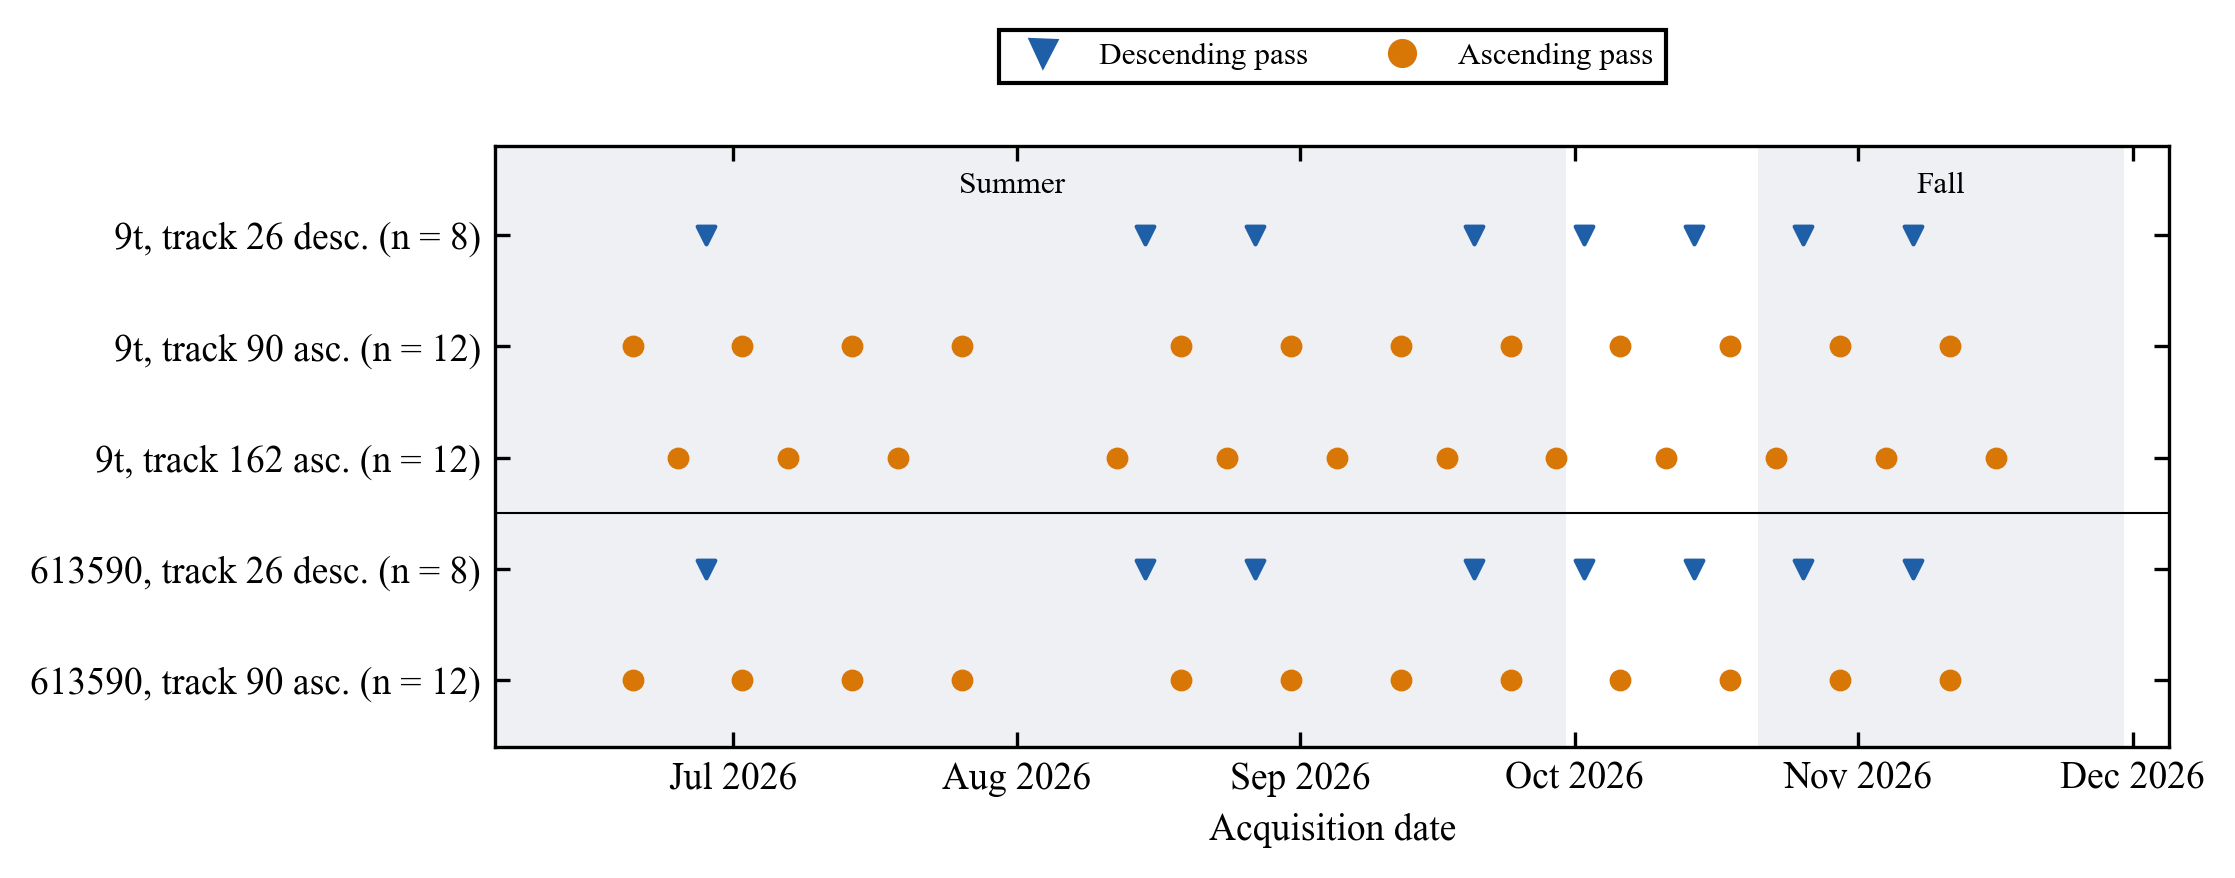
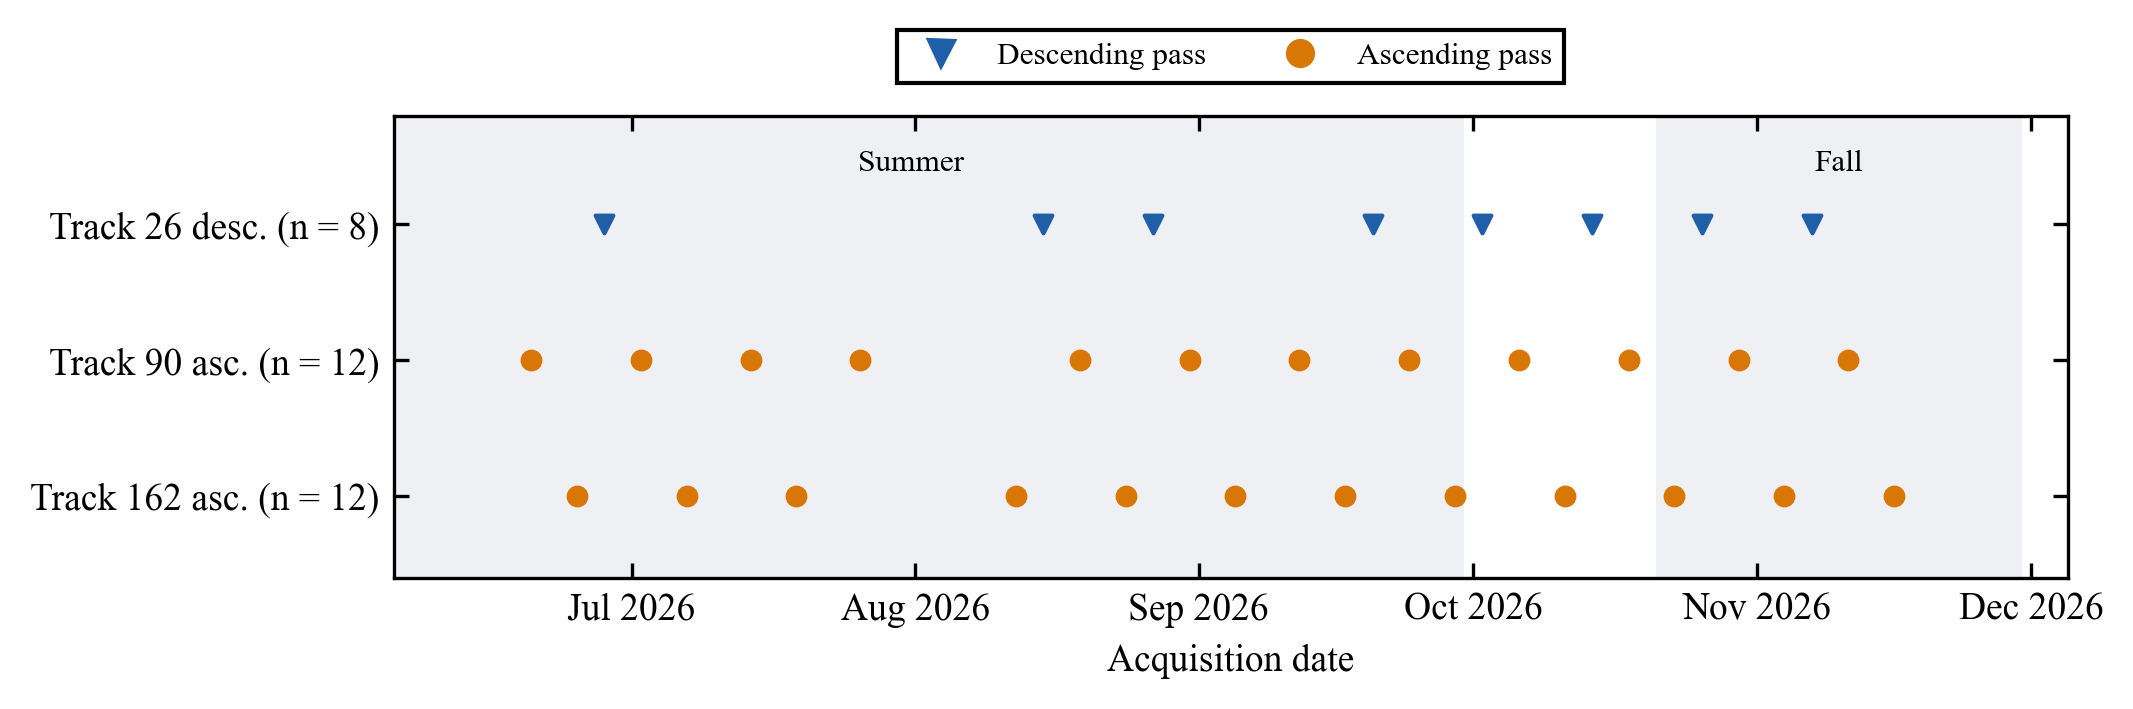
nisar: post-June dates figure limited to 9t (present scope)

diff --git a/nisar/code/s7_analysis/_nisar_process_figures.py b/nisar/code/s7_analysis/_nisar_process_figures.py
@@ -93,8 +93,8 @@ def fig_dates_postjune():
     bad_dates = {(pd.Timestamp(x), t) for x, t in (("2026-07-22", 26), ("2026-09-08", 26))}
     d = d[(d.t >= pd.Timestamp("2026-06-01")) & (d.valid_fraction >= 0.5)]
     d = d[[(t, k) not in bad_dates for t, k in zip(d.t, d.track)]]
-    lanes = [("9t", 26), ("9t", 90), ("9t", 162), ("613590", 26), ("613590", 90)]
-    fig, ax = plt.subplots(figsize=(7.2, 2.6))
+    lanes = [("9t", 26), ("9t", 90), ("9t", 162)]   # 2026-11-23: present scope is 9t only
+    fig, ax = plt.subplots(figsize=(7.2, 2.0))
     for a, b, lab in (("2026-06-01", "2026-09-30", "Summer"), ("2026-10-21", "2026-11-30", "Fall")):
         ax.axvspan(pd.Timestamp(a), pd.Timestamp(b), color=LIGHT, alpha=0.6, lw=0, zorder=0)
         ax.text(pd.Timestamp(a) + (pd.Timestamp(b) - pd.Timestamp(a)) / 2, len(lanes) + 0.45, lab,
@@ -105,8 +105,7 @@ def fig_dates_postjune():
         s_ = d[(d.area == area) & (d.track == trk)]
         mk = "v" if trk == 26 else "o"
         ax.scatter(s_.t, [y] * len(s_), marker=mk, s=18, c=BLUE if trk == 26 else ORANGE, zorder=3)
-        labels.append(f"{area}, track {trk} {'desc.' if trk == 26 else 'asc.'} (n = {len(s_)})")
-    ax.axhline(2.5, color=K, lw=0.5)
+        labels.append(f"Track {trk} {'desc.' if trk == 26 else 'asc.'} (n = {len(s_)})")
     ax.set_yticks(range(len(lanes), 0, -1), labels)
     ax.set_ylim(0.4, len(lanes) + 0.8)
     ax.set_xlim(pd.Timestamp("2026-06-05"), pd.Timestamp("2026-12-05"))
